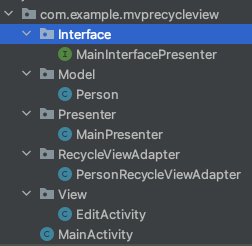
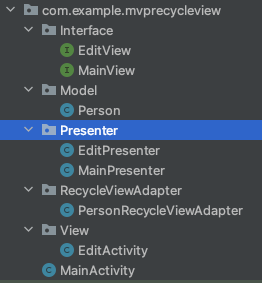
20-06-2022 update demo project

diff --git a/MVPRecycleView/app/src/main/java/com/example/mvprecycleview/MainActivity.java b/MVPRecycleView/app/src/main/java/com/example/mvprecycleview/MainActivity.java
@@ -9,7 +9,7 @@ import android.os.Bundle;
 import android.widget.Button;
 import android.widget.Toast;
 
-import com.example.mvprecycleview.Interface.MainInterfacePresenter;
+import com.example.mvprecycleview.Interface.MainView;
 import com.example.mvprecycleview.Model.Person;
 import com.example.mvprecycleview.Presenter.MainPresenter;
 import com.example.mvprecycleview.RecycleViewAdapter.PersonRecycleViewAdapter;
@@ -17,7 +17,7 @@ import com.example.mvprecycleview.RecycleViewAdapter.PersonRecycleViewAdapter;
 import java.lang.ref.WeakReference;
 import java.util.ArrayList;
 
-public class MainActivity extends AppCompatActivity implements MainInterfacePresenter.PresenterView {
+public class MainActivity extends AppCompatActivity implements MainView {
 
     private RecyclerView recyclerView;
     private PersonRecycleViewAdapter adapter;
@@ -95,7 +95,7 @@ public class MainActivity extends AppCompatActivity implements MainInterfacePres
             String phone = "0366253623";
 
             presenter.create(name, phone);
-            adapter.notifyDataSetChanged();
+
         });
     }
 
@@ -112,9 +112,11 @@ public class MainActivity extends AppCompatActivity implements MainInterfacePres
      * They are automatically showed below
      * we just re-define these functions which we need to need.
      */
+    @SuppressLint("NotifyDataSetChanged")
     @Override
     public void createSuccessfully() {
         Toast.makeText(this, "Create successfully", Toast.LENGTH_SHORT).show();
+        adapter.notifyDataSetChanged();
     }
 
     @Override
@@ -122,9 +124,11 @@ public class MainActivity extends AppCompatActivity implements MainInterfacePres
         Toast.makeText(this, "Create failed", Toast.LENGTH_SHORT).show();
     }
 
+    @SuppressLint("NotifyDataSetChanged")
     @Override
     public void modifySuccessfully() {
         Toast.makeText(this, "Modify successfully", Toast.LENGTH_SHORT).show();
+        adapter.notifyDataSetChanged();
     }
 
     @Override
@@ -132,14 +136,17 @@ public class MainActivity extends AppCompatActivity implements MainInterfacePres
         Toast.makeText(this, "Modify Failed", Toast.LENGTH_SHORT).show();
     }
 
+    @SuppressLint("NotifyDataSetChanged")
     @Override
     public void eradicateSuccessfully() {
         Toast.makeText(this, "Eradicated Successfully !", Toast.LENGTH_SHORT).show();
+        adapter.notifyDataSetChanged();
     }
 
     @Override
     public void eradicateFailed() {
         Toast.makeText(this, "Eradicated Failed !", Toast.LENGTH_SHORT).show();
+        finish();
     }
 
 
@@ -152,7 +159,6 @@ public class MainActivity extends AppCompatActivity implements MainInterfacePres
     public void modify(int position, String name, String phone)
     {
         presenter.modify(position, name, phone);
-        adapter.notifyItemChanged(position);
     }
 
 
@@ -163,6 +169,5 @@ public class MainActivity extends AppCompatActivity implements MainInterfacePres
     public void eradicate(int position)
     {
         presenter.eradicate(position);
-        adapter.notifyItemRemoved(position);
     }
 }

diff --git a/MVPRecycleView/app/src/main/java/com/example/mvprecycleview/View/EditActivity.java b/MVPRecycleView/app/src/main/java/com/example/mvprecycleview/View/EditActivity.java
@@ -8,13 +8,16 @@ import android.widget.Button;
 import android.widget.EditText;
 import android.widget.Toast;
 
-import com.example.mvprecycleview.Interface.MainInterfacePresenter;
+
+import com.example.mvprecycleview.Interface.EditView;
 import com.example.mvprecycleview.MainActivity;
-import com.example.mvprecycleview.Model.Person;
-import com.example.mvprecycleview.Presenter.MainPresenter;
+import com.example.mvprecycleview.Presenter.EditPresenter;
 import com.example.mvprecycleview.R;
 
-public class EditActivity extends AppCompatActivity {
+/**
+ * adapter.notify must be declared in interface View not in activity
+ */
+public class EditActivity extends AppCompatActivity implements EditView {
 
     private Button buttonEdit;
     private Button buttonRemove;
@@ -25,6 +28,8 @@ public class EditActivity extends AppCompatActivity {
     private String position;
     private String name;
     private String phone;
+
+    private EditPresenter presenter ;
     @Override
     protected void onCreate(Bundle savedInstanceState) {
         super.onCreate(savedInstanceState);
@@ -37,6 +42,7 @@ public class EditActivity extends AppCompatActivity {
         name = intent.getStringExtra("name");
         phone = intent.getStringExtra("phone");
 
+        presenter = new EditPresenter(this);
 
         /*Step 2 - run essential functions*/
         setupComponent();
@@ -71,13 +77,12 @@ public class EditActivity extends AppCompatActivity {
             phone = txtPhone.getText().toString().trim();
 
             /*Step 2 - modify the target with MainActivity's modify functions*/
-            MainActivity.getmInstanceActivity().modify(
-                    Integer.parseInt(position), name, phone);
+            presenter.modify(position, name, phone);
         });
 
 
         buttonRemove.setOnClickListener(view ->{
-            MainActivity.getmInstanceActivity().eradicate(Integer.parseInt(position));
+            presenter.eradicate(position);
         });
 
     }
@@ -94,5 +99,13 @@ public class EditActivity extends AppCompatActivity {
     }
 
 
+    @Override
+    public void modifyFailed() {
+        Toast.makeText(this, "Name or phone is not valid! Please, try again ", Toast.LENGTH_SHORT).show();
+    }
 
+    @Override
+    public void eradicateFailed() {
+        Toast.makeText(this, "Removal failed! Please, try again", Toast.LENGTH_SHORT).show();
+    }
 }

diff --git a/MVPRecycleView/app/src/main/java/com/example/mvprecycleview/Presenter/MainPresenter.java b/MVPRecycleView/app/src/main/java/com/example/mvprecycleview/Presenter/MainPresenter.java
@@ -1,6 +1,6 @@
 package com.example.mvprecycleview.Presenter;
 
-import com.example.mvprecycleview.Interface.MainInterfacePresenter;
+import com.example.mvprecycleview.Interface.MainView;
 import com.example.mvprecycleview.Model.Person;
 
 import java.util.ArrayList;
@@ -11,11 +11,11 @@ public class MainPresenter {
 
     /**
      * @Author Phong-Kaster
-     * this interface "PresenterView" & its contructor is the way presenter gets in touch with MainActivity
+     * this interface "PresenterView" & its constructor is the way presenter gets in touch with MainActivity
      * */
-    private MainInterfacePresenter.PresenterView presenterView;
+    private final MainView presenterView;
 
-    public MainPresenter(MainInterfacePresenter.PresenterView presenterView)
+    public MainPresenter(MainView presenterView)
     {
         this.presenterView = presenterView;
     }
@@ -68,7 +68,7 @@ public class MainPresenter {
      */
     public void modify(int position, String name, String phone)
     {
-        if( position < 0 || name.length() < 0 || phone.length() < 5)
+        if( position < 0 || name.length() < 1 || phone.length() < 5)
             presenterView.modifyFailed();
 
 
@@ -89,6 +89,6 @@ public class MainPresenter {
             presenterView.eradicateFailed();
 
         people.remove(position);
-        presenterView.modifyFailed();
+        presenterView.eradicateSuccessfully();
     }
 }

diff --git a/MVPRecycleView/app/src/main/java/com/example/mvprecycleview/Presenter/EditPresenter.java b/MVPRecycleView/app/src/main/java/com/example/mvprecycleview/Presenter/EditPresenter.java
@@ -1,0 +1,51 @@
+package com.example.mvprecycleview.Presenter;
+
+import com.example.mvprecycleview.Interface.EditView;
+import com.example.mvprecycleview.MainActivity;
+
+public class EditPresenter {
+
+    private EditView presenter;
+
+    public EditPresenter(EditView presenter)
+    {
+        this.presenter = presenter;
+    }
+
+    /***
+     * @author Phong-Kaster
+     * @param position tells Presenter where item is modified
+     * @param name is the new name for this item
+     * @param phone is the latest phone for element
+     */
+    public void modify(String position, String name, String phone)
+    {
+        int integerPosition = Integer.parseInt(position);
+        if( integerPosition < 0 || name.length() < 1 || phone.length() < 10)
+        {
+            presenter.modifyFailed();
+        }
+        else
+        {
+            MainActivity.getmInstanceActivity().modify(integerPosition, name, phone);
+        }
+    }
+
+    /**
+     * @author Phong-Kaster
+     * @param pos tell Presenter the position whose item is delete
+     */
+    public void eradicate(String pos)
+    {
+        int position = Integer.parseInt(pos);
+
+        if( position < 0)
+        {
+            presenter.eradicateFailed();
+        }
+        else
+        {
+            MainActivity.getmInstanceActivity().eradicate(position);
+        }
+    }
+}

diff --git a/MVPRecycleView/app/src/main/java/com/example/mvprecycleview/RecycleViewAdapter/PersonRecycleViewAdapter.java b/MVPRecycleView/app/src/main/java/com/example/mvprecycleview/RecycleViewAdapter/PersonRecycleViewAdapter.java
@@ -12,7 +12,6 @@ import android.widget.Toast;
 import androidx.annotation.NonNull;
 import androidx.recyclerview.widget.RecyclerView;
 
-import com.example.mvprecycleview.Interface.MainInterfacePresenter;
 import com.example.mvprecycleview.Model.Person;
 import com.example.mvprecycleview.R;
 import com.example.mvprecycleview.View.EditActivity;
@@ -21,7 +20,7 @@ import java.util.ArrayList;
 
 public class PersonRecycleViewAdapter extends RecyclerView.Adapter<PersonRecycleViewAdapter.ViewHolder> {
 
-    private Context context;
+    private final Context context;
     private ArrayList<Person> objects = new ArrayList<>();
 
     public PersonRecycleViewAdapter(Context context, ArrayList<Person> objects)

diff --git a/MVPRecycleView/app/src/main/java/com/example/mvprecycleview/Interface/MainView.java b/MVPRecycleView/app/src/main/java/com/example/mvprecycleview/Interface/MainView.java
@@ -1,0 +1,12 @@
+package com.example.mvprecycleview.Interface;
+
+public interface MainView {
+    void createSuccessfully();
+    void createFailed();
+
+    void modifySuccessfully();
+    void modifyFailed();
+
+    void eradicateSuccessfully();
+    void eradicateFailed();
+}

diff --git a/MVPRecycleView/app/src/main/java/com/example/mvprecycleview/Interface/EditView.java b/MVPRecycleView/app/src/main/java/com/example/mvprecycleview/Interface/EditView.java
@@ -1,0 +1,7 @@
+package com.example.mvprecycleview.Interface;
+
+public interface EditView {
+
+    void modifyFailed();
+    void eradicateFailed();
+}
